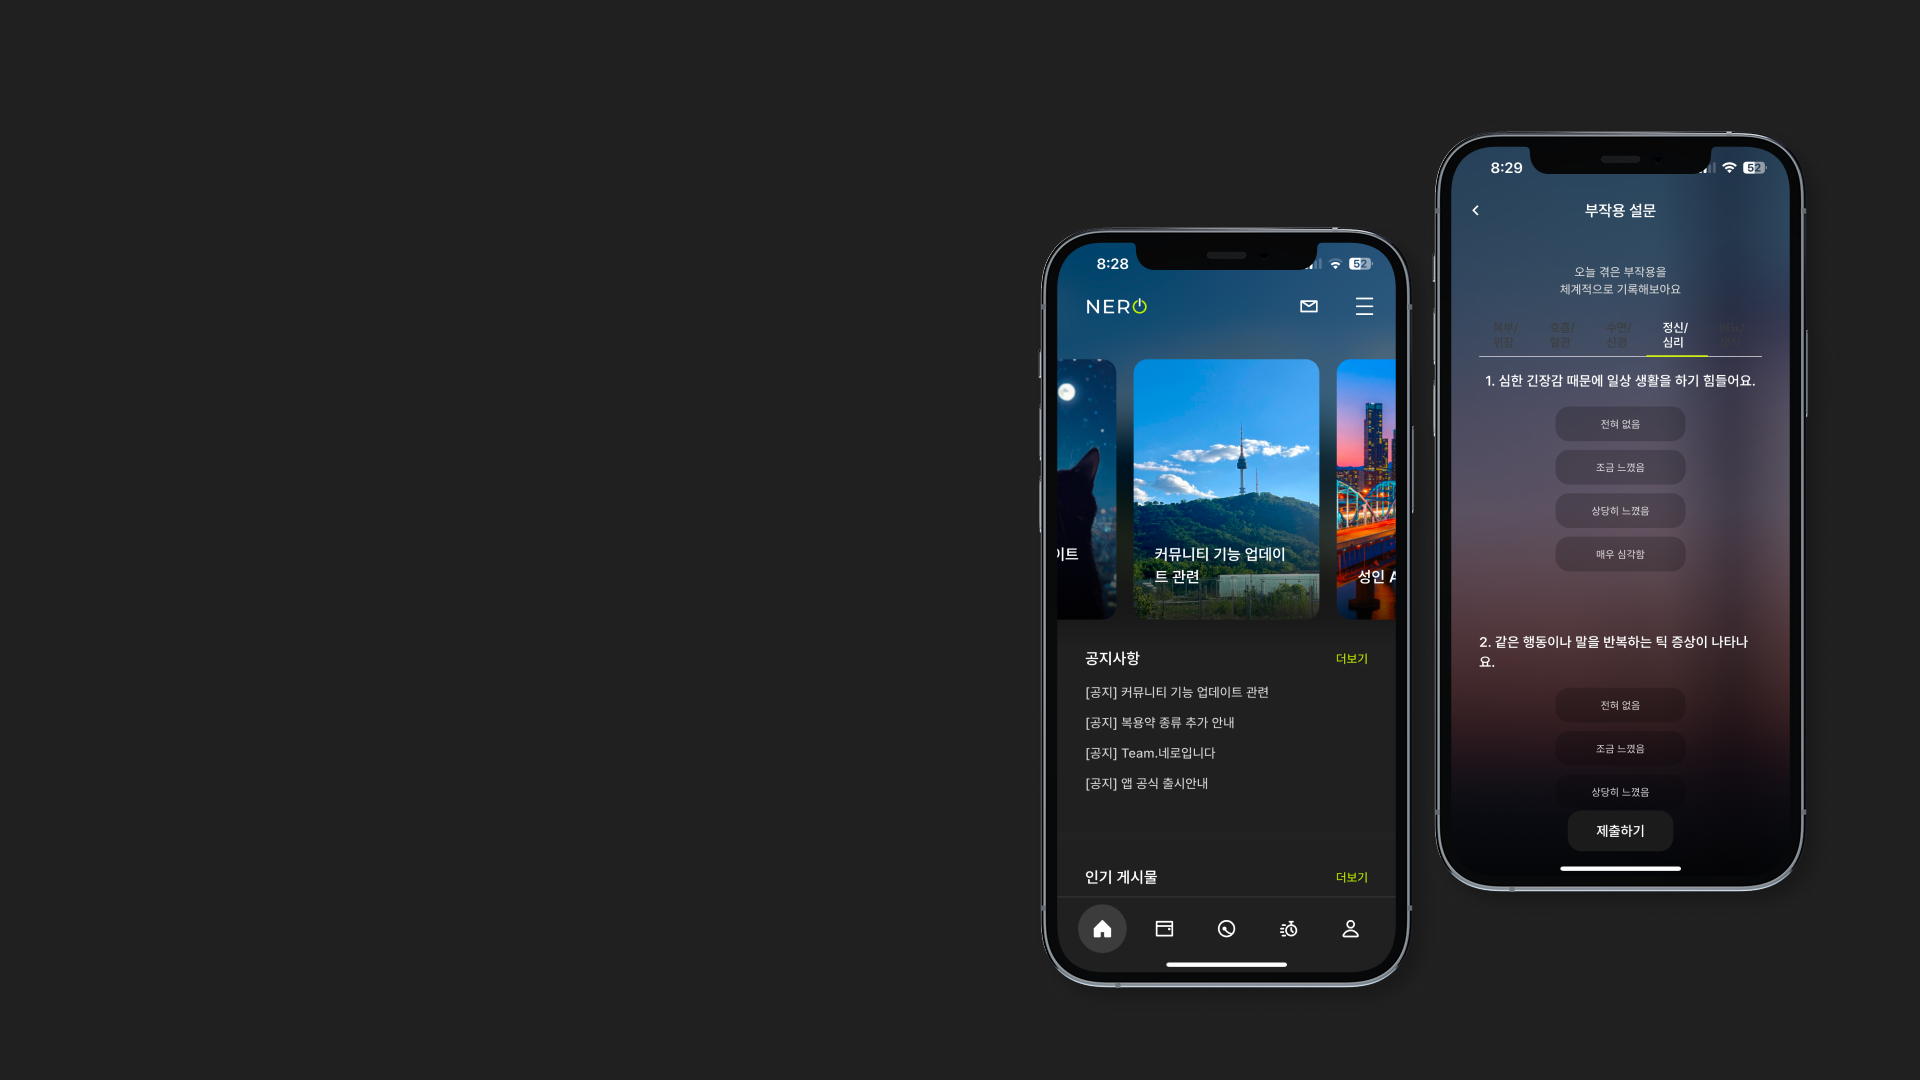
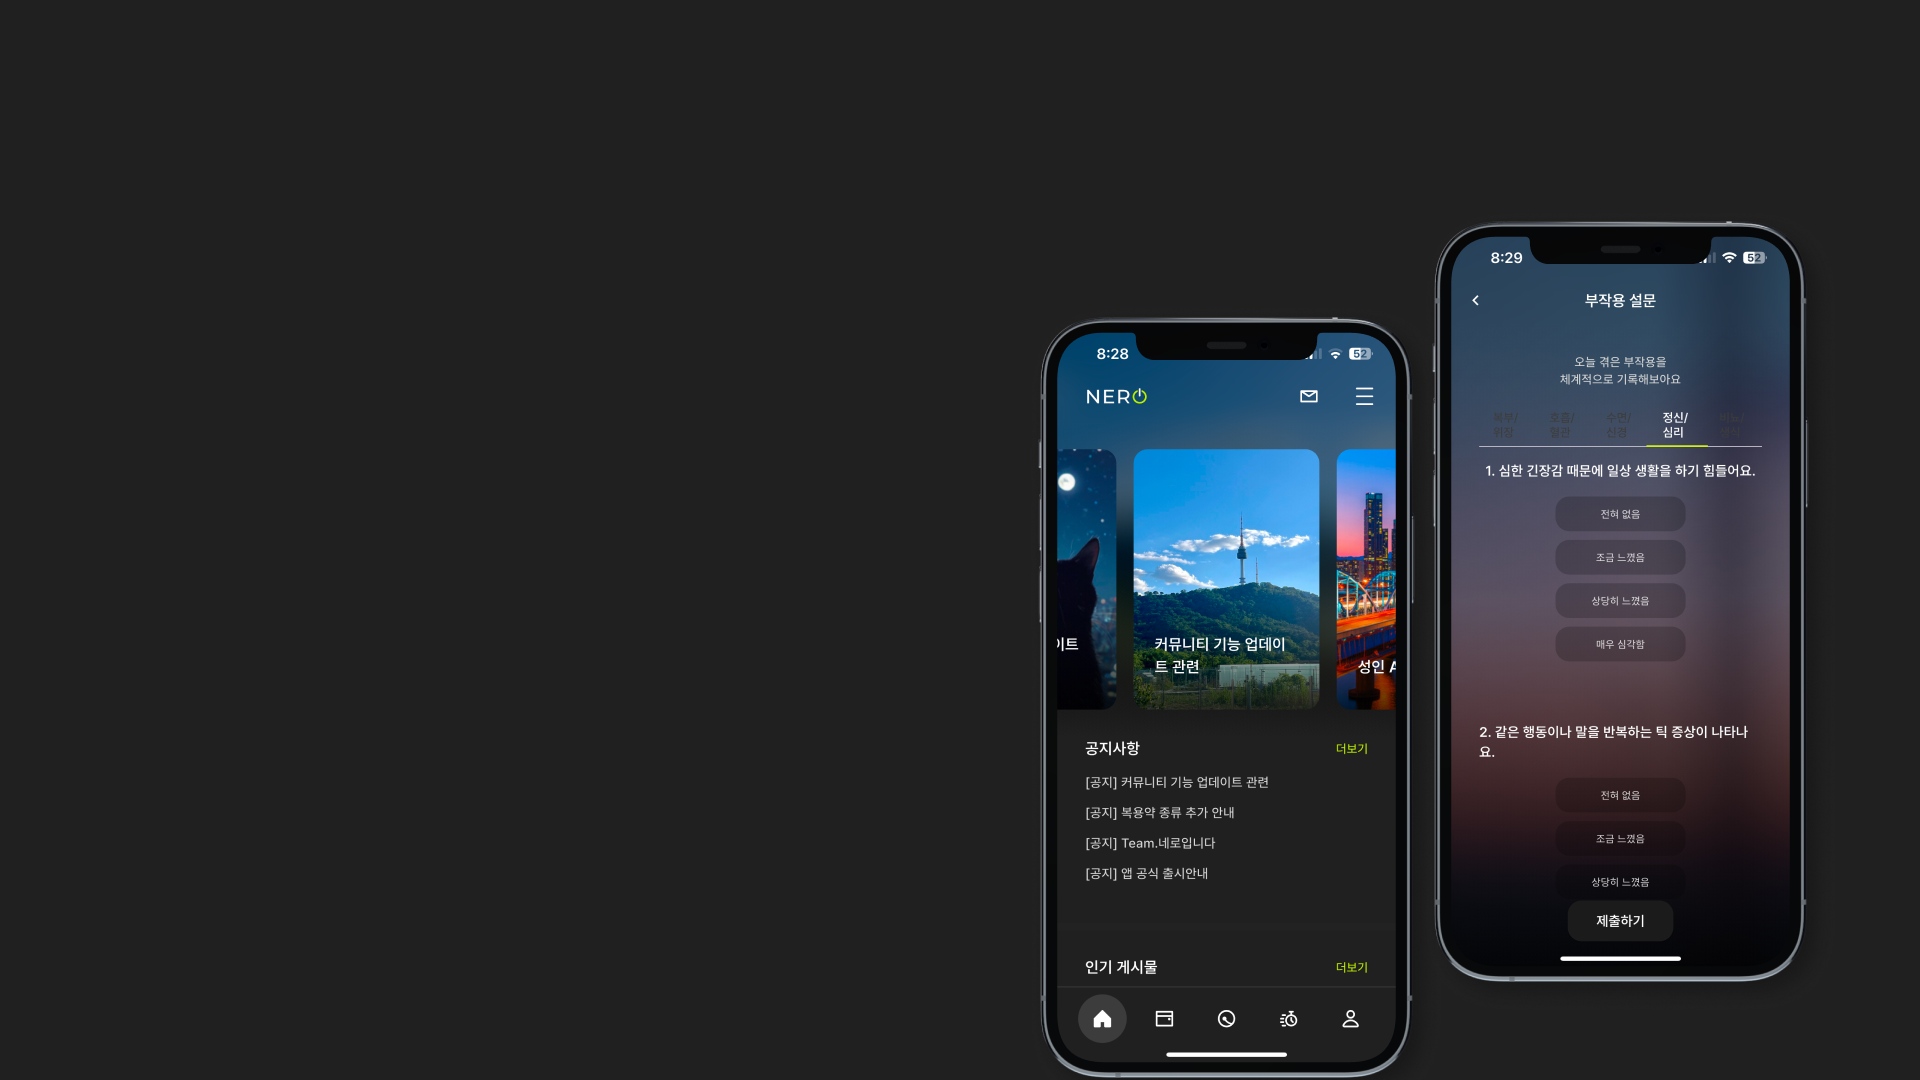
Chore: hero 이미지 변경

Changed region(s): [[0.5312, 0.1222, 0.9375, 1.0], [0.7812, 0.4278, 0.9062, 0.5194]]

diff --git a/js/landing.js b/js/landing.js
@@ -405,8 +405,6 @@ const portfolio = [
             "GA4",
             "관리자",
             "AI서버",
-            "앱배포",
-            "1년6개월 유지보수",
         ],
         verification: ["앱 배포 지원", "건강데이터 연동", "운영 관리자", "장기 유지보수"],
     },
@@ -431,53 +429,39 @@ const portfolio = [
     {
         title: "소프티 Softie",
         image: "portfolio-3.png",
-        label: "소살리토 공식 온라인 사이트와 운영 관리자 화면",
-        copy: "브랜드 웹사이트, 결제, 알림, 배송 API, 운영 관리자와 배포 파이프라인까지 구축한 공식 온라인 사이트입니다.",
+        label: "소프티 앱 화면",
+        copy: "게이미피케이션을 결합한 iOS/Android 앱으로, 앱 화면, 서버, 관리자, 스토어 자료, 심사 대응까지 지원했습니다.",
         tags: [
-            "Django",
-            "PostgreSQL",
-            "네이버페이",
-            "토스페이먼츠",
-            "알림톡",
-            "스마트택배API",
-            "Redis",
-            "Docker/CI/CD",
-            "GA4",
+            "AndroidStudio",
+            "Kotlin",
+            "Xcode",
+            "Swift",
         ],
-        verification: ["결제 연동", "배송 API", "알림 자동화", "CI/CD"],
+        verification: ["반응형 애니메이션", "습관 기록", "푸시알림"],
     },
     {
         title: "레브마이크 RevMic",
         image: "portfolio-4.png",
-        label: "소살리토 공식 온라인 사이트와 운영 관리자 화면",
-        copy: "브랜드 웹사이트, 결제, 알림, 배송 API, 운영 관리자와 배포 파이프라인까지 구축한 공식 온라인 사이트입니다.",
+        label: "레브마이크 앱 화면",
+        copy: "음성 기반 역재생 녹음 앱",
         tags: [
-            "Django",
-            "PostgreSQL",
-            "네이버페이",
-            "토스페이먼츠",
-            "알림톡",
-            "스마트택배API",
-            "Redis",
-            "Docker/CI/CD",
+            "Flutter",
+            "AndroidStudio",
+            "Xcode",
+            "GoogleAds",
             "GA4",
         ],
-        verification: ["결제 연동", "배송 API", "알림 자동화", "CI/CD"],
+        verification: ["Google PlayStore", "Apple App Store", "앱 내 광고연동", "CI/CD"],
     },
     {
         title: "서울익스플로러 Seoul Explorer",
         image: "portfolio-5.png",
-        label: "소살리토 공식 온라인 사이트와 운영 관리자 화면",
-        copy: "브랜드 웹사이트, 결제, 알림, 배송 API, 운영 관리자와 배포 파이프라인까지 구축한 공식 온라인 사이트입니다.",
+        label: "서울익스플로러 화면",
+        copy: "외국인 관광객 대상 서울 내 음식점 및 관광지 소개 웹사이트",
         tags: [
-            "Django",
-            "PostgreSQL",
-            "네이버페이",
-            "토스페이먼츠",
-            "알림톡",
-            "스마트택배API",
-            "Redis",
-            "Docker/CI/CD",
+            "Google Firebase",
+            "GitHub Actions",
+            "Google Map",
             "GA4",
         ],
         verification: ["결제 연동", "배송 API", "알림 자동화", "CI/CD"],
